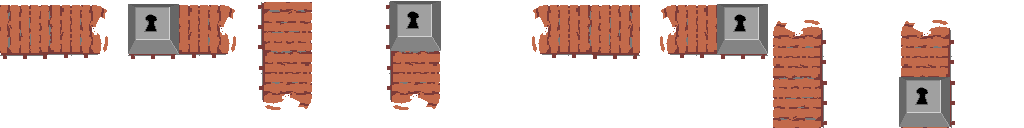
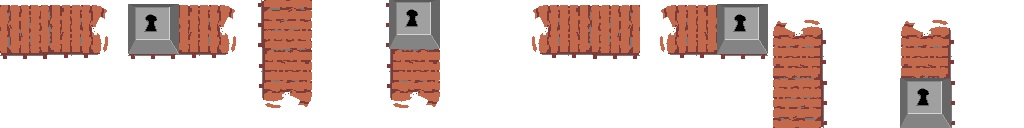
Duck in car. Dont allow walking so far into the water. Fix colision with palm trees

diff --git a/src/level.cpp b/src/level.cpp
@@ -25,14 +25,16 @@ int tileStackFlags(TEG_MAP *map, int mx, int my) {
 	}
 	else
 	{
-		int i1, i2, f1, f2;
+		int i1, i2, i3, f1, f2, f3;
 		i1 = teg_mapget (map, 0, mx, my);
 		i2 = teg_mapget (map, 1, mx, my);
+		i3 = teg_mapget (map, 2, mx, my);
 		if (i1 >= 0) f1 = map->tilelist->tiles[i1].flags; else f1 = 0;
 		if (i2 >= 0) f2 = map->tilelist->tiles[i2].flags; else f2 = 0;
+		if (i3 >= 0) f3 = map->tilelist->tiles[i3].flags; else f3 = 0;
 
 		// check for solids
-		if (f1 == 1 || f2 == 1) result |= TS_SOLID;
+		if (f1 == 1 || f2 == 1 || f3 == 1) result |= TS_SOLID;
 
 		return result;
 	}
